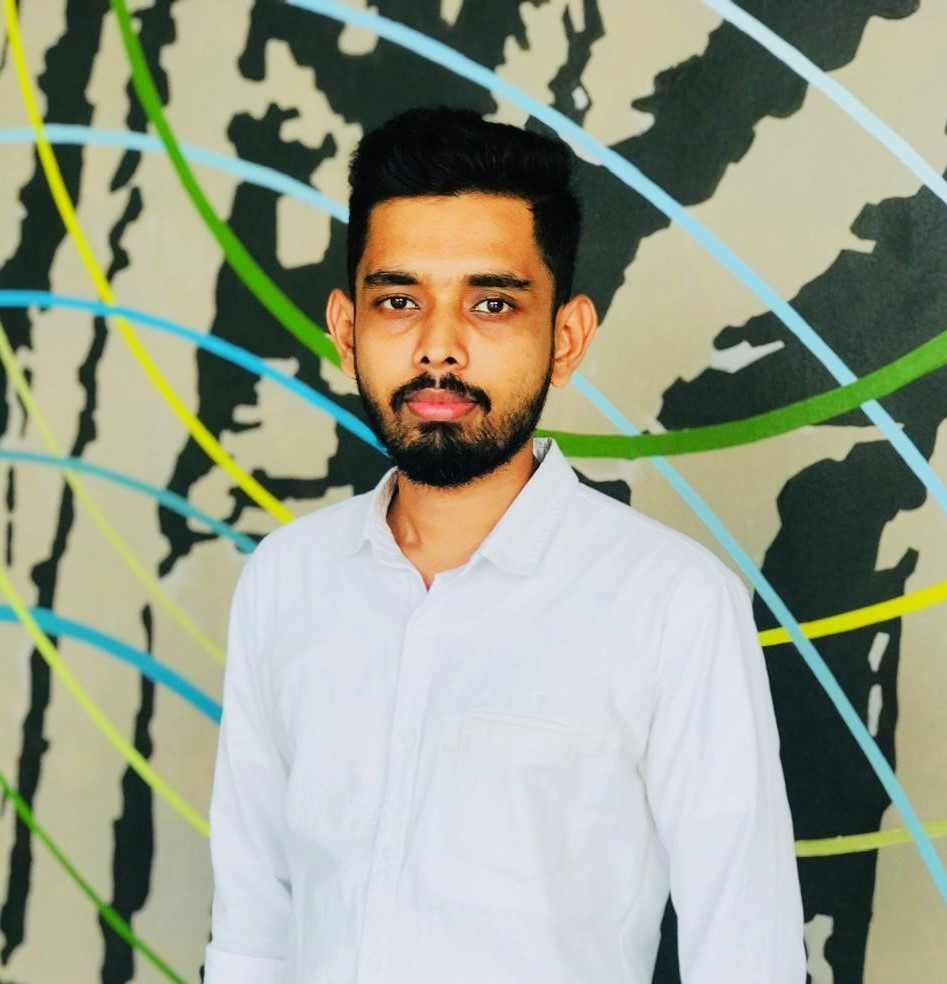
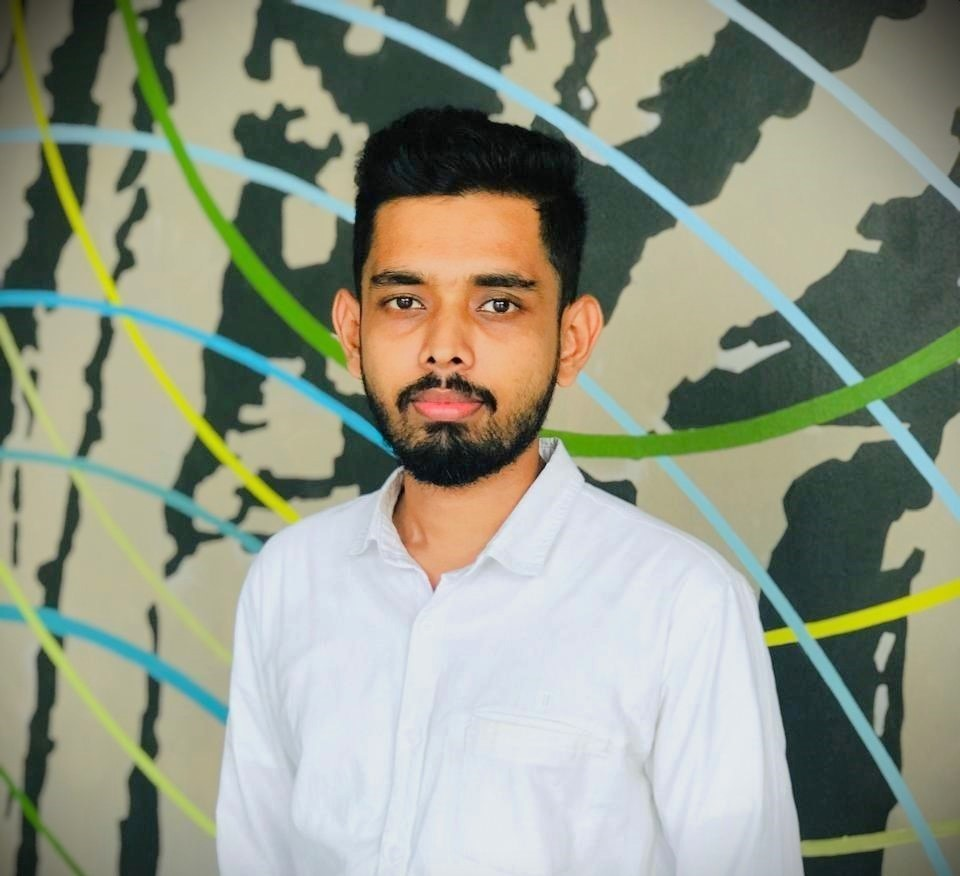
update portfolio components

diff --git a/app/components/Navbar.jsx b/app/components/Navbar.jsx
@@ -25,30 +25,28 @@ const Navbar = () => {
   };
 
   return (
-    <nav className="w-full fixed top-0 left-0 bg-white shadow-md z-50">
+    <nav className="w-full fixed top-0 left-0 bg-white shadow-md z-50 dark:bg-gray-400 text-white">
       <div className="max-w-7xl mx-auto flex items-center justify-between px-6 py-4">
         
-        {/* Logo */}
+
         <a href="#top" aria-label="Go to top of the page">
           <Image
             src={assets.logoimg}
             alt="Asis Logo"
-            width={80}
+            width={60}
             height={20}
             className="cursor-pointer hover:opacity-90 transition-opacity duration-200"
           />
         </a>
 
-        {/* Desktop Menu */}
         <ul className="hidden md:flex space-x-8 font-medium text-gray-900">
-          <li><a href="#top" className="hover:text-indigo-400 transition font-poppins">Home</a></li>
-          <li><a href="#about" className="hover:text-indigo-400 transition font-poppins">About Me</a></li>
-          <li><a href="#services" className="hover:text-indigo-400 transition font-poppins">Services</a></li>
-          <li><a href="#work" className="hover:text-indigo-400 transition font-poppins">My Work</a></li>
-          <li><a href="#contact" className="hover:text-indigo-400 transition font-poppins">Contact Me</a></li>
+          <li><a href="#top" className="hover:text-white transition font-poppins">Home</a></li>
+          <li><a href="#about" className="hover:text-white transition font-poppins">About Me</a></li>
+          <li><a href="#services" className="hover:text-white transition font-poppins">Services</a></li>
+          <li><a href="#work" className="hover:text-white transition font-poppins">My Work</a></li>
+          <li><a href="#contact" className="hover:text-white transition font-poppins">Contact Me</a></li>
         </ul>
 
-        {/* Dark Mode Toggle + Contact Button (Desktop) */}
         <div className="hidden md:flex items-center gap-6">
           <button
             onClick={toggleDarkMode}
@@ -67,8 +65,6 @@ const Navbar = () => {
           </a>
         </div>
 
-
-        {/* Mobile Menu Toggle */}
         <div className="md:hidden">
           <button onClick={toggleMenu} aria-label="Toggle menu">
             {isMenuOpen ? <FiX size={26} /> : <FiMenu size={26} />}
@@ -76,14 +72,13 @@ const Navbar = () => {
         </div>
       </div>
 
-      {/* Mobile Menu */}
       {isMenuOpen && (
-        <ul className="md:hidden flex flex-col items-center bg-white space-y-6 py-6 shadow-md text-gray-800 font-medium">
-          <li><a href="#top" onClick={toggleMenu} className="hover:text-indigo-600 font-poppins">Home</a></li>
-          <li><a href="#about" onClick={toggleMenu} className="hover:text-indigo-600 font-poppins">About Me</a></li>
-          <li><a href="#services" onClick={toggleMenu} className="hover:text-indigo-600 font-poppins">Services</a></li>
-          <li><a href="#work" onClick={toggleMenu} className="hover:text-indigo-600 font-poppins">My Work</a></li>
-          <li><a href="#contact" onClick={toggleMenu} className="hover:text-indigo-600 font-poppins">Contact Me</a></li>
+        <ul className="md:hidden flex flex-col items-center dark:bg-gray-400 space-y-6 py-6 shadow-md text-gray-800 font-medium">
+          <li><a href="#top" onClick={toggleMenu} className="hover:text-white font-poppins">Home</a></li>
+          <li><a href="#about" onClick={toggleMenu} className="hover:text-white font-poppins">About Me</a></li>
+          <li><a href="#services" onClick={toggleMenu} className="hover:text-white font-poppins">Services</a></li>
+          <li><a href="#work" onClick={toggleMenu} className="hover:text-white font-poppins">My Work</a></li>
+          <li><a href="#contact" onClick={toggleMenu} className="hover:text-white font-poppins">Contact Me</a></li>
           <li>
             <a
               href="#contact"

diff --git a/app/components/About.jsx b/app/components/About.jsx
@@ -1,0 +1,49 @@
+import { assets, infoList, toolsData } from '@/assets/assets'
+import Image from 'next/image'
+import React from 'react'
+
+const About = () => {
+return (
+    <div id='about' className='px-4 py-10 text-center mt-20'>
+        <h3 className='text-2xl mb-4'>Introduction</h3>
+        <h1 className='text-4xl font-bold'>About Me</h1>
+
+        <div className='flex w-full flex-col lg:flex-row items-center gap-20 my-20'>
+            <div className='sm:w-110'>
+                <div className='sm:w-90 w-full rounded-3xl mx-25'>
+                <Image 
+                    src={assets.userimg} 
+                    alt="Portrait of Azeez Shaban" 
+                    className="w-full rounded-3xl mx-auto"
+                    priority
+                />
+                </div>
+            </div>
+            <div className='flex-1'>
+                <p className='text-lg text-gray-600 mb-6 max-w-2xl text-justify'>
+                    I am a passionate full-stack developer with experience in building dynamic web applications. My expertise lies in both front-end and back-end development, allowing me to create seamless user experiences.
+                </p>
+                <p className='text-lg text-gray-600 mb-10 max-w-2xl text-justify'>
+                    I enjoy working with modern technologies like React, Next.js, and Node.js, and I am always eager to learn and implement new tools. I am also enthusiastic about exploring data science tech trends and how they can be integrated into web development. Outside of coding, I love contributing to open-source and sharing knowledge.
+                </p>
+
+                <ul className='grid gap-6 sm:grid-cols-3 grid-cols-1 max-w-2xl mt-10'>
+                    {infoList.map(({ icon, title, description }, index) => (
+                        <li
+                            key={index}
+                            className='text-left border border-gray-300 rounded-xl p-6 cursor-pointer hover:bg-lightHover hover:-translate-y-1 transition-all duration-500 hover:shadow-md hover:shadow-black/20'
+                        >
+                            <Image src={icon} alt={title} className='w-10 h-10 mb-4' />
+                            <h3 className='font-semibold text-lg text-gray-700'>{title}</h3>
+                            <p className='text-gray-600 text-sm mt-2'>{description}</p>
+                        </li>
+                    ))}
+                </ul>
+                <h3>Technologies I work with</h3>
+            </div>
+        </div>
+    </div>
+)
+}
+
+export default About;

diff --git a/app/components/Header.jsx b/app/components/Header.jsx
@@ -5,9 +5,9 @@ import React from 'react';
 
 const Header = () => {
   return (
-    <div className=" px-4 py-10 text-center">
-      <div className="mb-4">
-        <Image src={assets.logo} alt="Azeez Logo" className="w-40 mx-auto" />
+    <div className=" py-10 text-center max-w-5xl mx-auto mt-20">
+      <div className="mb-6">
+        <Image src={assets.logo} alt="Azeez Logo" className="mx-auto" width={180} height={50} />
       </div>
 
       <h2 className="flex items-center justify-center gap-2 text-2xl text-center mb-6">
@@ -15,8 +15,8 @@ const Header = () => {
         <Image src={assets.handicon} alt="Waving Hand" className="w-7 h-7" />
         I'm Azeez Shaban
       </h2>
-      <h1 className="text-4xl font-bold mb-6">Fullstack Developer based in Sri Lanka</h1>
-      <p className="text-lg text-gray-600 text-center mx-25 mb-6">
+      <h1 className="text-4xl font-bold mb-6">Fullstack Developer and Data Science enthusiast</h1>
+      <p className="text-lg text-gray-600 text-center mb-6">
         I specialize in building high-quality web applications using the latest technologies. My focus is on creating fast, responsive, and user-friendly experiences that help businesses grow and succeed.
       </p>
       <div className='flex flex-col sm:flex-row items-center gap-4 mt-4 justify-center'>

diff --git a/assets/assets.js b/assets/assets.js
@@ -176,3 +176,36 @@ export const servicesData = [
         link: ''
     }
 ]
+
+export const infoList = [
+    {
+        icon: assets.code,
+        title: 'Languages',
+        description: 'HTML, CSS, JavaScript, ReactJs, NextJs, NodeJs, Angular, Docker, AWS'
+    },
+    {
+        icon: assets.education,
+        title: 'Education',
+        description: 'BSc(HONS) Computer Science - University of Kelaniya(UG)'
+    },
+    {
+        icon: assets.project,
+        title: 'Projects',
+        description: 'Built more than 5 projects'
+    }
+]
+
+export const toolsData = [
+    assets.angular,
+    assets.aws,
+    assets.docker,
+    assets.firebase,
+    assets.git,
+    assets.nextjs,
+    assets.react,
+    assets.nodejs,
+    assets.powerbi,
+    assets.html,
+    assets.css,
+    assets.js
+]

diff --git a/app/page.js b/app/page.js
@@ -1,4 +1,5 @@
 'use client';
+import About from "./components/About";
 import Header from "./components/Header";
 import Navbar from "./components/Navbar";
 
@@ -7,6 +8,7 @@ export default function Home() {
     <>
     <Navbar/>
     <Header/>
+    <About/>
     </>
   );
 }

diff --git a/app/layout.js b/app/layout.js
@@ -16,7 +16,7 @@ export const metadata = {
 
 export default function RootLayout({ children }) {
   return (
-    <html lang="en">
+    <html lang="en" className="scroll-smooth">
       <body
         className={`${outfit.className} ${poppins.className} antialiased`}
       >

diff --git a/app/globals.css b/app/globals.css
@@ -3,7 +3,3 @@
 *{
     font-family: 'Poppins';
 }
-
-html {
-  scroll-behavior: smooth;
-}
